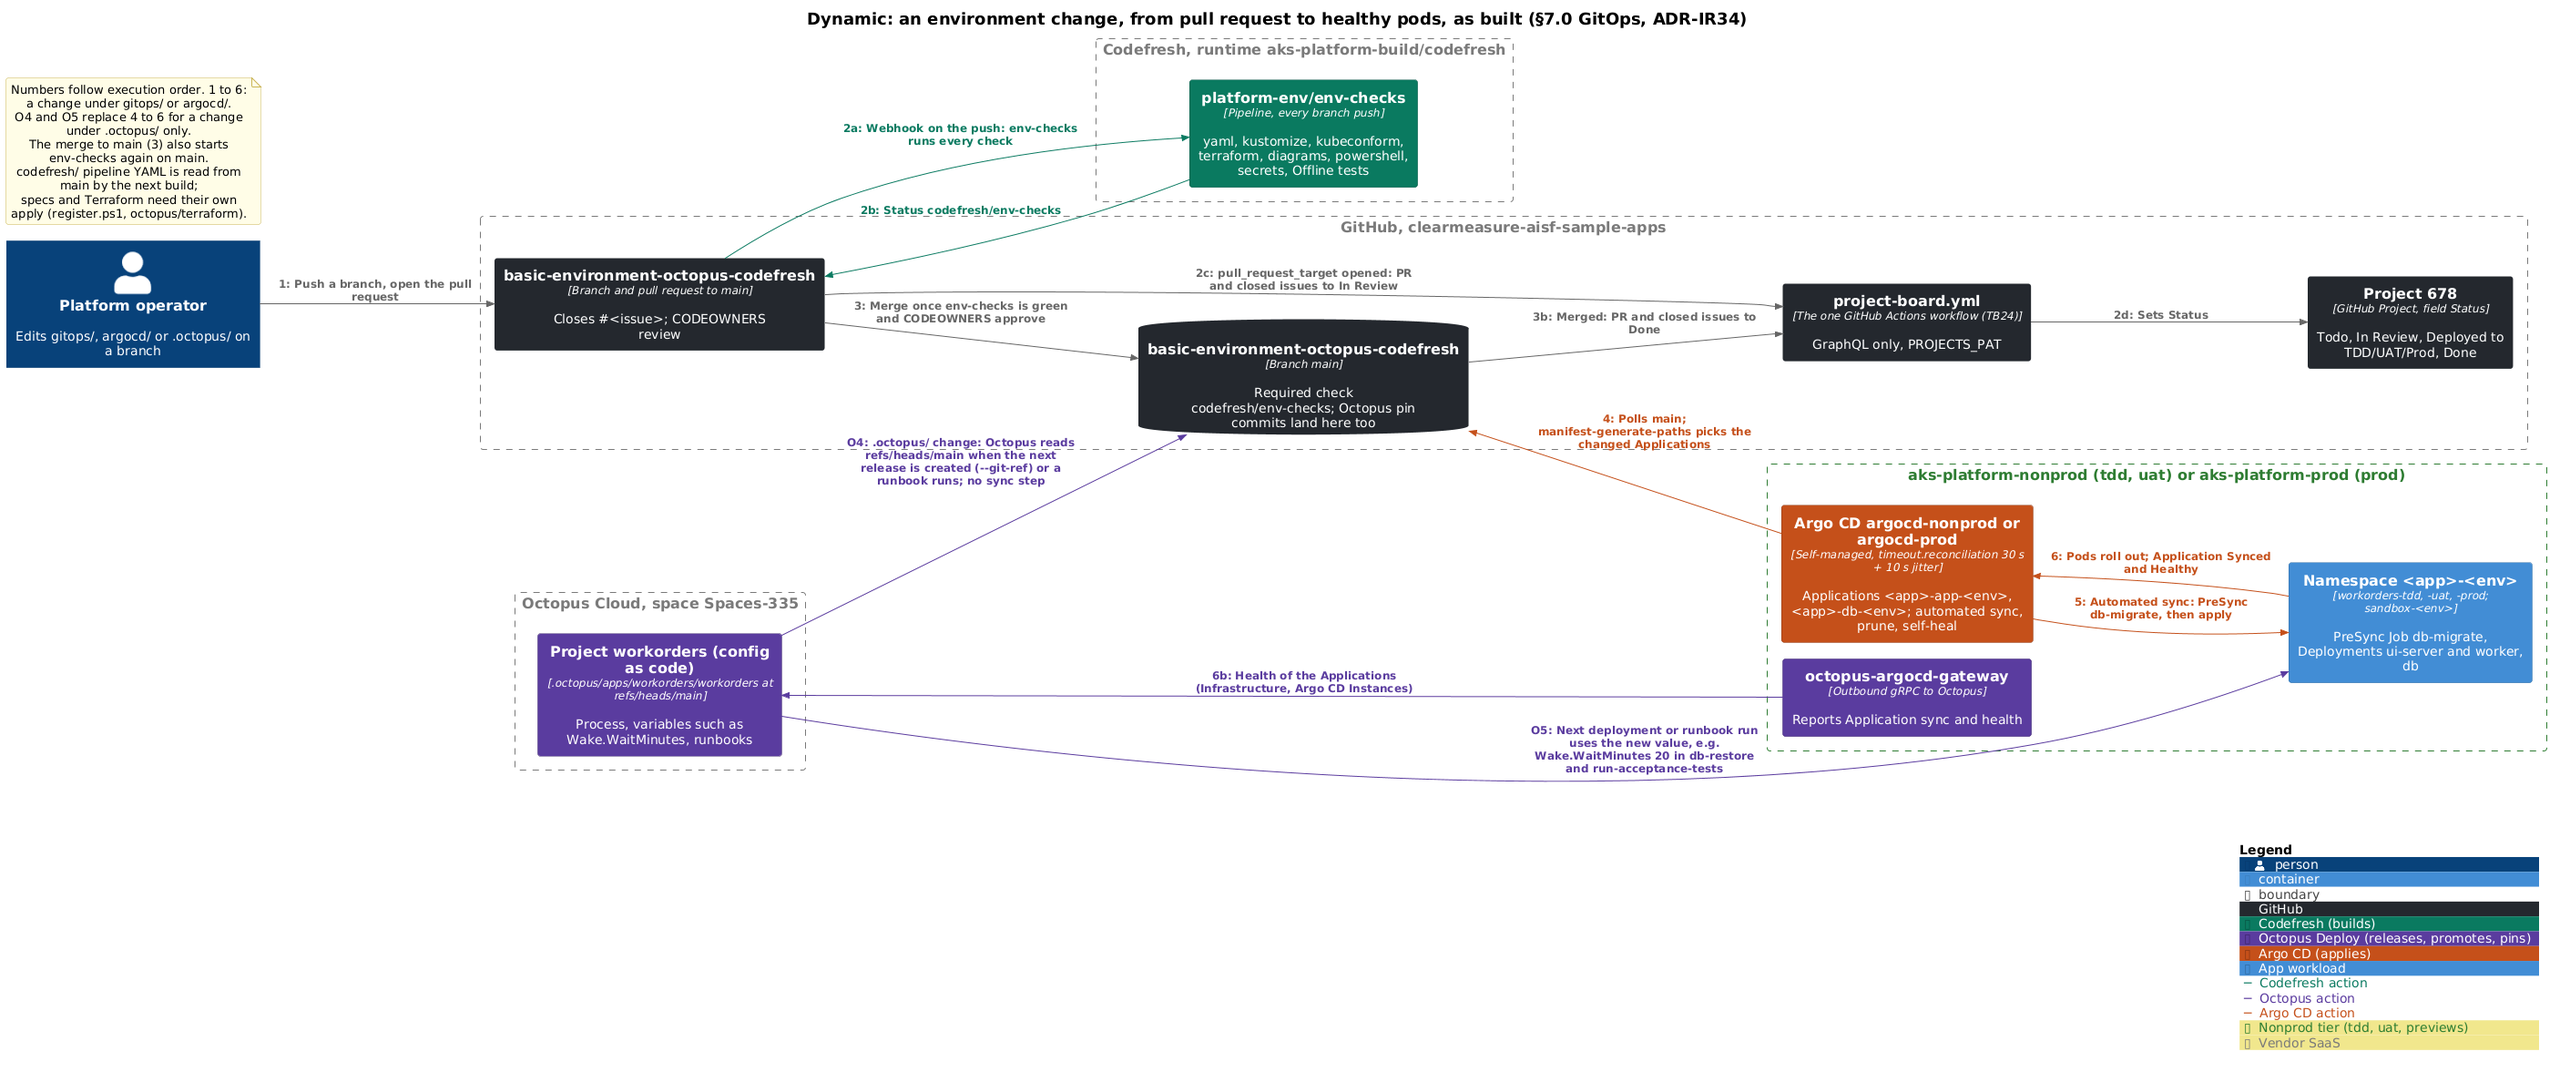
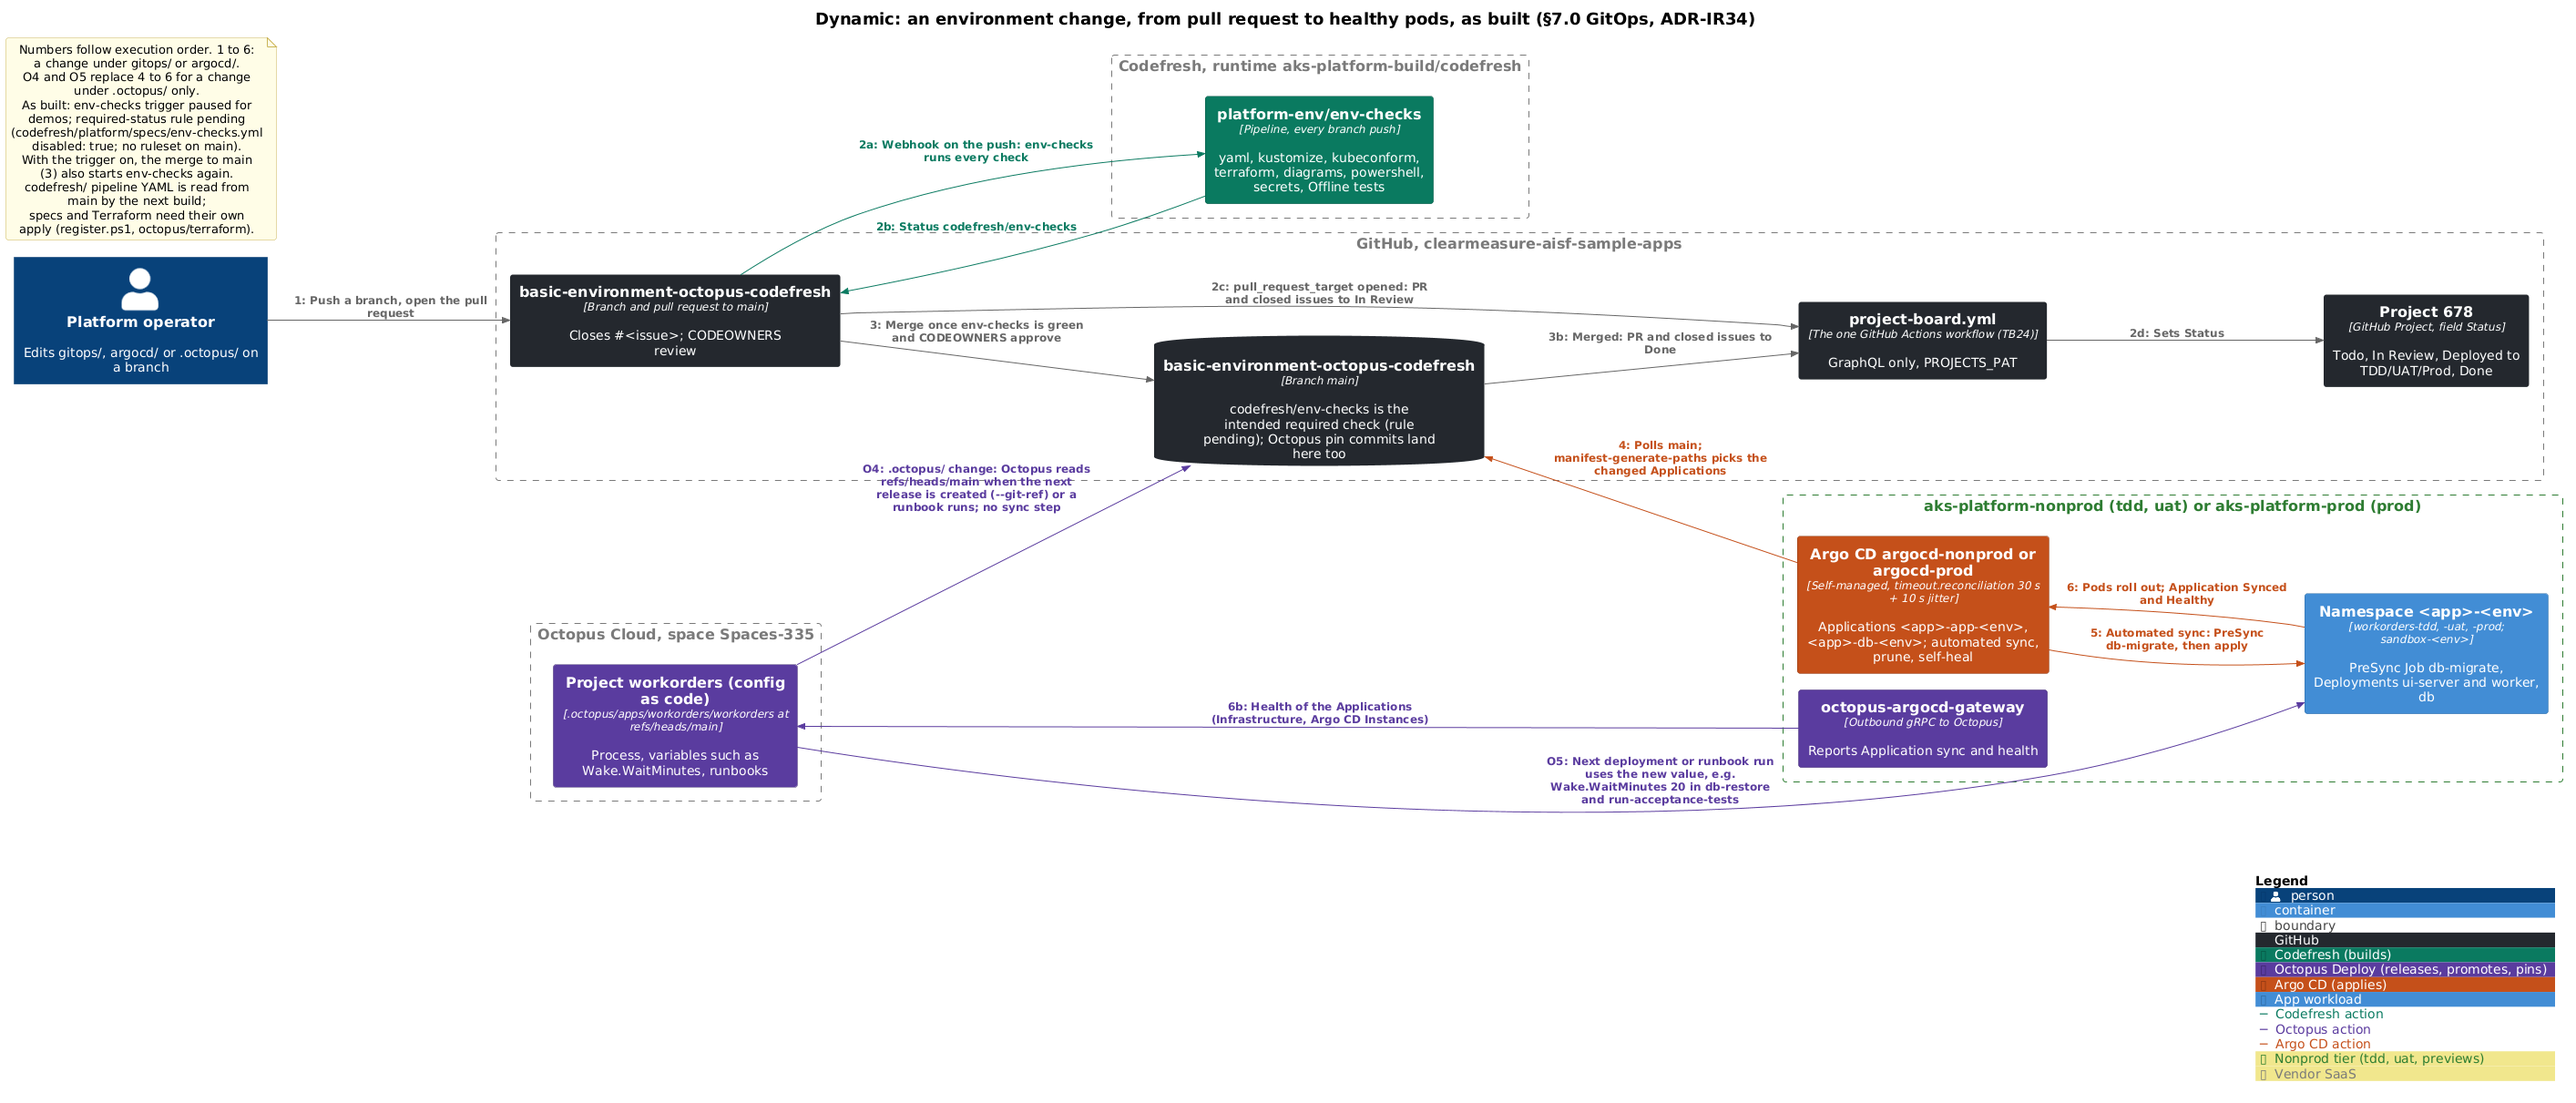
Design: PRO_1 in dyn-conformance-nightly; note the paused env-checks trigger
- dyn-conformance-nightly: three builds at a time (PRO_1), no longer BASIC_1.
- dyn-as-built-env-change and its captions (README, architecture-views,
  walkthrough 04): env-checks trigger paused for demos
  (codefresh/platform/specs/env-checks.yml disabled: true); required-status
  rule pending. The numbered design flow is unchanged.

Claude-Session: https://claude.ai/code/session_01439y7Z3FdjfM3MQJYmTY9q

diff --git a/docs/walkthroughs/04-drift-and-rollback.md b/docs/walkthroughs/04-drift-and-rollback.md
@@ -21,7 +21,7 @@ The behaviour is the same for every app: the tenant chart renders every app Appl
 
 ![Dynamic: an environment change, from pull request to healthy pods](../../design/diagrams/dyn-as-built-env-change.png)
 
-*Dynamic, an environment change as built: pull request, env-checks and the board workflow, merge, Argo CD's 30-second poll, sync and rollout; a `.octopus/` change reaches Octopus at the next release or runbook run instead ([source](../../design/diagrams/dyn-as-built-env-change.puml)).*
+*Dynamic, an environment change as built: pull request, env-checks and the board workflow, merge, Argo CD's 30-second poll, sync and rollout; a `.octopus/` change reaches Octopus at the next release or runbook run instead. As built: env-checks trigger paused for demos; required-status rule pending ([source](../../design/diagrams/dyn-as-built-env-change.puml)).*
 
 - **Git is the truth for Kubernetes.** Every app Application (`<app>-<deployable>-<env>`, `<app>-db-<env>`) syncs automatically with `prune: true` and `selfHeal: true` (ADR-D5). A change made directly in the cluster is reverted; a change merged to `main` is applied.
 - **Octopus is the truth for what version runs.** It is the only writer of the pin fields in `gitops/apps/<app>/envs/<env>/<deployable>/`. Its deployment history says which release each environment runs, who approved it and when.

diff --git a/design/architecture-views.md b/design/architecture-views.md
@@ -34,7 +34,7 @@ The provisioned environment with its real names (registry, vaults, clusters, Oct
 
 ![Dynamic: an environment change, from pull request to healthy pods](diagrams/dyn-as-built-env-change.png)
 
-*Dynamic, an environment change: 1 pull request, 2 env-checks and the board workflow (In Review), 3 merge (Done), 4 Argo CD's poll (30 s + 10 s jitter), 5 sync with PreSync `db-migrate`, 6 rollout and health, which the gateway reports to Octopus. A `.octopus/` change takes O4 and O5 instead: Octopus reads `main` at the next release or runbook run. Source: [diagrams/dyn-as-built-env-change.puml](diagrams/dyn-as-built-env-change.puml).*
+*Dynamic, an environment change: 1 pull request, 2 env-checks and the board workflow (In Review), 3 merge (Done), 4 Argo CD's poll (30 s + 10 s jitter), 5 sync with PreSync `db-migrate`, 6 rollout and health, which the gateway reports to Octopus. A `.octopus/` change takes O4 and O5 instead: Octopus reads `main` at the next release or runbook run. As built: env-checks trigger paused for demos; required-status rule pending. Source: [diagrams/dyn-as-built-env-change.puml](diagrams/dyn-as-built-env-change.puml).*
 
 ![Dynamic: a workorders change, from pull request to prod](diagrams/dyn-as-built-app-change.png)
 

diff --git a/README.md b/README.md
@@ -24,7 +24,7 @@ The environment as built, with its real resource names; [design/architecture-vie
 
 ![Dynamic: an environment change, from pull request to healthy pods](design/diagrams/dyn-as-built-env-change.png)
 
-*An environment change, steps 1 to 6 (pull request, checks, merge, Argo CD poll, sync, rollout), plus O4 and O5 for `.octopus/`. Source: [dyn-as-built-env-change.puml](design/diagrams/dyn-as-built-env-change.puml).*
+*An environment change, steps 1 to 6 (pull request, checks, merge, Argo CD poll, sync, rollout), plus O4 and O5 for `.octopus/`. As built: env-checks trigger paused for demos; required-status rule pending. Source: [dyn-as-built-env-change.puml](design/diagrams/dyn-as-built-env-change.puml).*
 
 ![Dynamic: a workorders change, from pull request to prod](design/diagrams/dyn-as-built-app-change.png)
 
